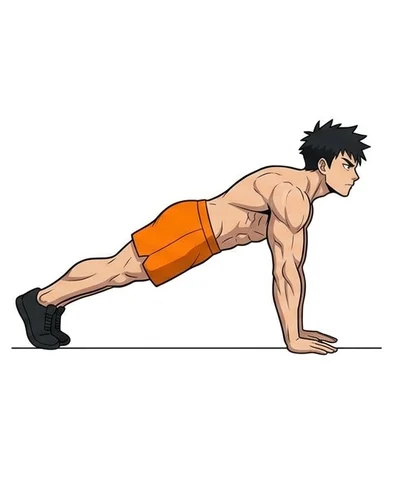
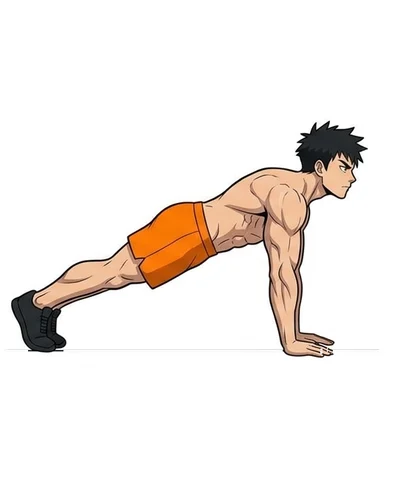
Personagem do CARGA em mais 11 exercícios, recorte limpo entre os quadros

Changed region(s): [[0.03, 0.25, 0.96, 0.75], [0.36, 0.4375, 0.42, 0.4688]]

diff --git a/frontend/src/components/Media.jsx b/frontend/src/components/Media.jsx
@@ -9,7 +9,7 @@ import { youtubeId, youtubeLinks } from '../lib/youtube.js'
 import { useAnimSources } from './Animations.jsx'
 import ExerciseFigure from './ExerciseFigure.jsx'
 import { OWN_FIGURES } from '../lib/brand.js'
-import { hasFrames, frameSrc, FRAME_ORDER, FRAME_MS } from '../lib/carga-frames.js'
+import { hasFrames, frameSrc, frameOrder, FRAME_MS } from '../lib/carga-frames.js'
 
 // An exercise's picture, wherever one shows. A custom exercise goes to CustomMedia.jsx — its own
 // photo, GIF, video or link, from the local media store — and never through imgSrc/gifSrc, which
@@ -61,13 +61,14 @@ function FramesMedia({ ex, id, compact, minimizable }) {
   const still = typeof matchMedia === 'function' && matchMedia('(prefers-reduced-motion: reduce)').matches
   useEffect(() => {
     if (!playing || still) return
-    const t = setInterval(() => setStep(n => n + 1), FRAME_MS)
+    const t = setInterval(() => setStep(n => n + 1), frameOrder(ex).length === 2 ? FRAME_MS * 1.5 : FRAME_MS)
     return () => clearInterval(t)
-  }, [playing, still])
+  }, [playing, still, ex])
   if (minimizable && gifSize === 'off') return null
   const mini = minimizable && gifSize === 'mini'
   const toggleSize = e => { e.stopPropagation(); update(s => { s.gifSize = mini ? 'full' : 'mini' }) }
-  const shown = still ? 2 : FRAME_ORDER[step % FRAME_ORDER.length]
+  const order = frameOrder(ex)
+  const shown = still ? 2 : order[step % order.length]
   return (
     <div className={'exmedia own frames' + (compact ? ' compact' : '') + (mini ? ' mini' : '')} id={id} onClick={() => setPlaying(v => !v)}>
       {[0, 1, 2].map(i => <img key={i} decoding="async" draggable={false} src={frameSrc(ex, i)} alt={i === shown ? exerciseNameFor(ex) : ''} className={i === shown ? 'on' : ''} />)}

diff --git a/frontend/src/lib/carga-frames.js b/frontend/src/lib/carga-frames.js
@@ -1,10 +1,28 @@
 // CARGA's own exercise drawings: the anime character, three frames per exercise (start, middle,
 // end), in public/carga-frames/<id>-<0|1|2>.webp. An exercise listed here shows them in place of
 // the shipped clip; every other exercise keeps its clip. The frames play start, middle, end,
-// middle, so the movement goes down and back up.
-export const FRAMES = new Set(['0043', '0294', '0662'])
-export const FRAME_ORDER = [0, 1, 2, 1]
+// middle, so the movement goes down and back up; where the middle came out the same as the end,
+// only start and end take turns.
+const FULL = [0, 1, 2, 1]
+const ENDS = [0, 2]
+export const FRAMES = {
+  '0043': FULL, // barbell full squat
+  '0294': FULL, // dumbbell biceps curl
+  '0662': FULL, // push-up
+  '0198': FULL, // cable pulldown
+  '0085': FULL, // barbell romanian deadlift
+  '0314': ENDS, // dumbbell incline bench press
+  '0586': FULL, // lever lying leg curl
+  '0027': FULL, // barbell bent over row
+  '0334': FULL, // dumbbell lateral raise
+  '0861': FULL, // cable seated row
+  '0405': FULL, // dumbbell seated shoulder press
+  '0585': FULL, // lever leg extension
+  '2267': FULL, // lever seated leg press
+  '0032': ENDS, // barbell deadlift
+}
 export const FRAME_MS = 520
 const BASE = (import.meta.env?.BASE_URL || '/') + 'carga-frames/'
-export const hasFrames = ex => !!ex && FRAMES.has(ex.id)
+export const hasFrames = ex => !!ex && Object.hasOwn(FRAMES, ex.id)
+export const frameOrder = ex => FRAMES[ex.id] || FULL
 export const frameSrc = (ex, i) => BASE + ex.id + '-' + i + '.webp'
